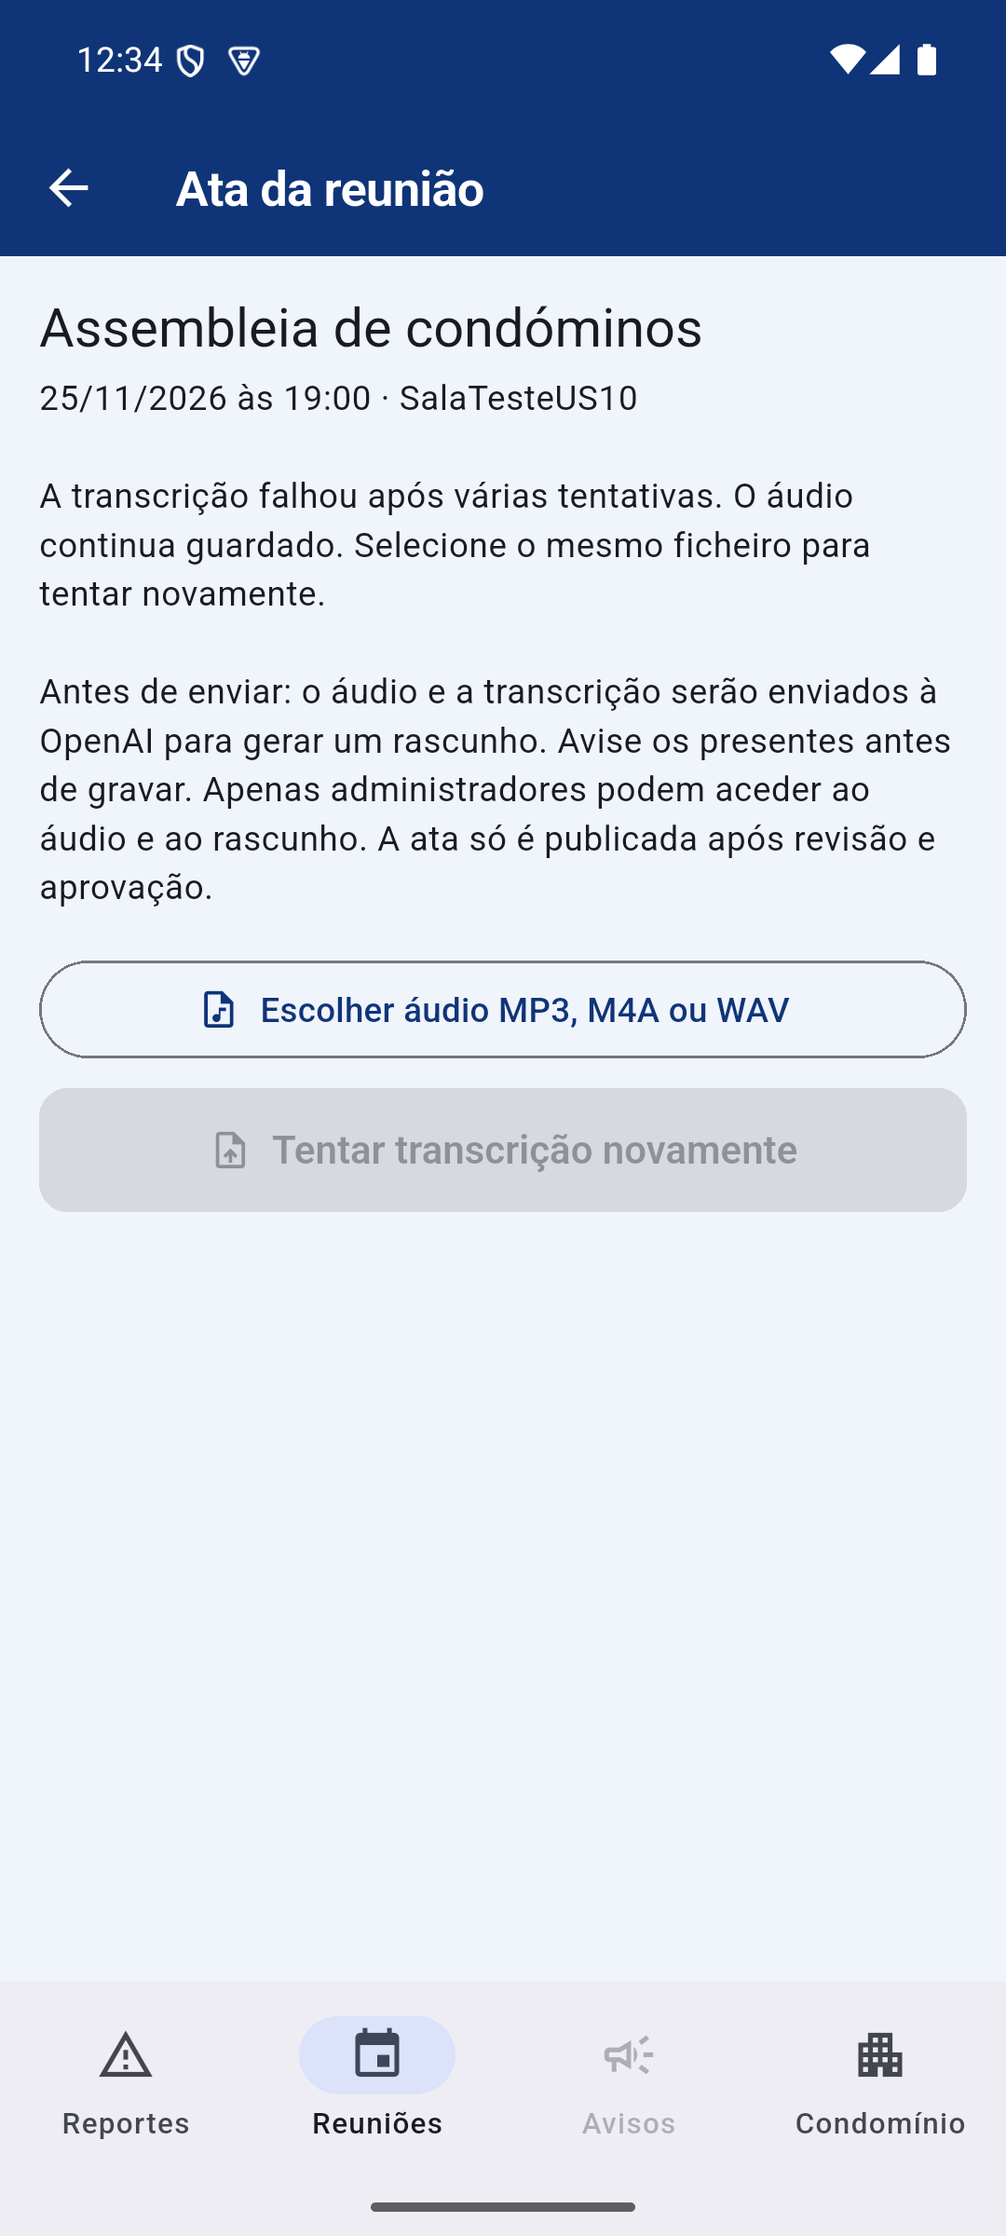
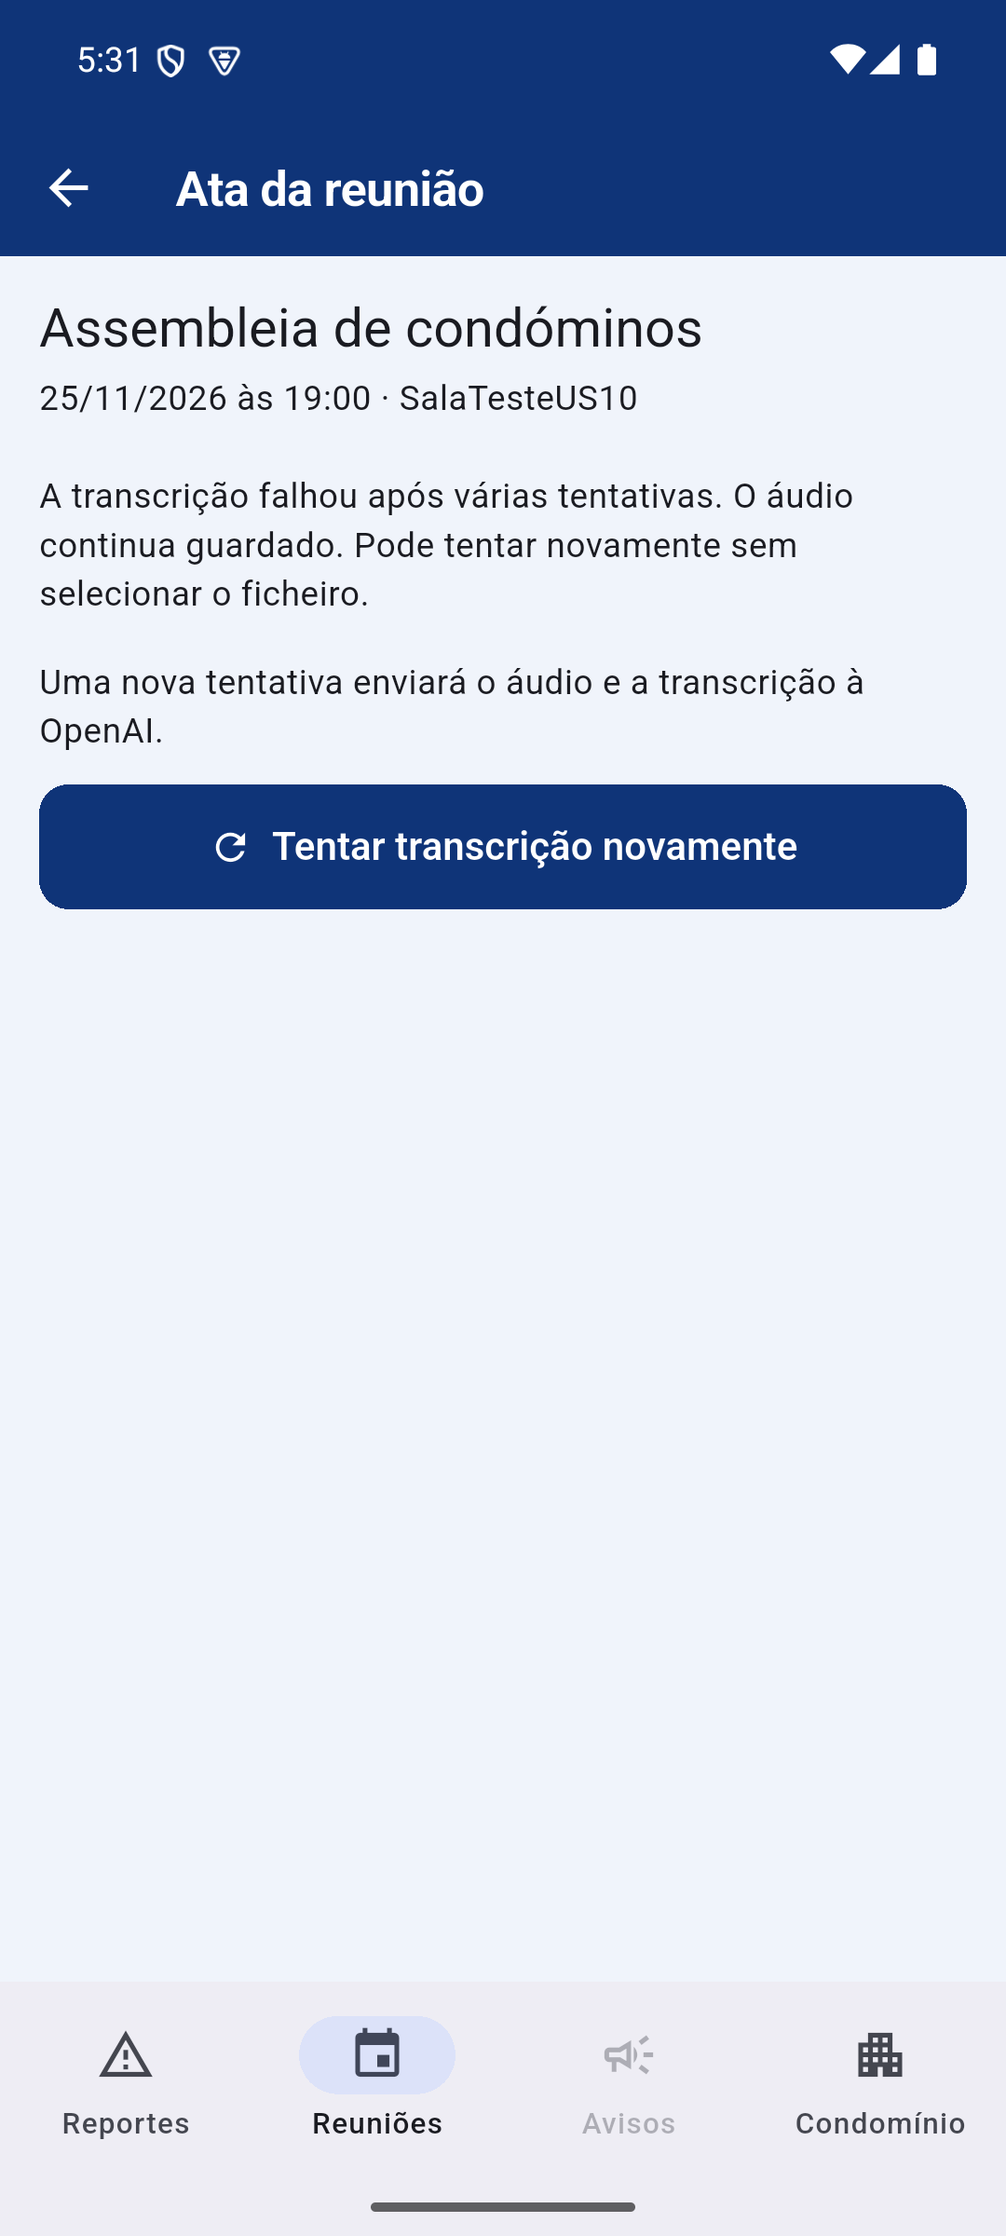
[#88] - Repetir transcrição sem novo upload
Reutiliza o áudio e o job após uma falha, com acesso restrito ao administrador. Atualiza a app, os testes, a documentação e a captura do emulador.

diff --git a/DomusCast/mobile/lib/screens/ata_screen.dart b/DomusCast/mobile/lib/screens/ata_screen.dart
@@ -171,13 +171,48 @@ class _AtaScreenState extends State<AtaScreen> with WidgetsBindingObserver {
     }
   }
 
+  Future<void> _repetir() async {
+    if (_aEnviar) return;
+    setState(() {
+      _aEnviar = true;
+      _erro = null;
+    });
+    try {
+      final ata =
+          await widget.api.repetirTranscricaoAta(_reuniaoId, widget.credencial);
+      if (!mounted) return;
+      setState(() {
+        _ata = ata;
+        _aEnviar = false;
+      });
+      _agendarConsulta();
+    } on ApiException catch (e) {
+      if (!mounted) return;
+      setState(() {
+        _erro = _mensagemErro(e);
+        _aEnviar = false;
+      });
+    } catch (_) {
+      if (!mounted) return;
+      setState(() {
+        _erro =
+            'Não foi possível repetir a transcrição. Verifique a rede e tente novamente.';
+        _aEnviar = false;
+      });
+    }
+  }
+
   String _mensagemErro(ApiException erro) => switch (erro.statusCode) {
         401 => 'A sessão expirou. Entre novamente na app.',
         403 => 'Só um administrador pode consultar esta ata.',
         404 => 'A reunião não foi encontrada.',
         409 => erro.codigo == 'ata_ja_aprovada'
             ? 'A ata já foi aprovada.'
-            : 'Esta reunião já tem outro áudio. Consulte a ata existente.',
+            : erro.codigo == 'audio_em_falta'
+                ? 'O áudio original não está disponível. Contacte o administrador do sistema.'
+                : erro.codigo == 'ata_nao_falhou'
+                    ? 'A ata já não está em falha. Atualize o estado.'
+                    : 'Esta reunião já tem outro áudio. Consulte a ata existente.',
         413 => 'O áudio excede o limite de 200 MB.',
         415 => 'Formato não aceite. Use MP3, M4A ou WAV.',
         422 => 'O áudio é inválido. Escolha outro ficheiro.',
@@ -188,7 +223,7 @@ class _AtaScreenState extends State<AtaScreen> with WidgetsBindingObserver {
   @override
   Widget build(BuildContext context) {
     final estado = _ata?['estado'] as String?;
-    final podeEnviar = estado == null || estado == 'falhou_transcricao';
+    final podeEnviar = estado == null;
     return Scaffold(
       appBar: AppBar(title: const Text('Ata da reunião')),
       body: RefreshIndicator(
@@ -224,7 +259,19 @@ class _AtaScreenState extends State<AtaScreen> with WidgetsBindingObserver {
               Semantics(
                   liveRegion: true,
                   child: const Text(
-                      'A transcrição falhou após várias tentativas. O áudio continua guardado. Selecione o mesmo ficheiro para tentar novamente.')),
+                      'A transcrição falhou após várias tentativas. O áudio continua guardado. Pode tentar novamente sem selecionar o ficheiro.')),
+            if (estado == 'falhou_transcricao') ...[
+              const SizedBox(height: 16),
+              const Text(
+                  'Uma nova tentativa enviará o áudio e a transcrição à OpenAI.'),
+              const SizedBox(height: 12),
+              FilledButton.icon(
+                onPressed: _aEnviar ? null : _repetir,
+                icon: const Icon(Icons.refresh),
+                label: const Text('Tentar transcrição novamente'),
+              ),
+              if (_aEnviar) const Center(child: CircularProgressIndicator()),
+            ],
             if (estado == 'pendente_revisao') ...[
               Semantics(
                   liveRegion: true,
@@ -256,9 +303,7 @@ class _AtaScreenState extends State<AtaScreen> with WidgetsBindingObserver {
               FilledButton.icon(
                 onPressed: _audio == null || _aEnviar ? null : _enviar,
                 icon: const Icon(Icons.upload_file),
-                label: Text(estado == 'falhou_transcricao'
-                    ? 'Tentar transcrição novamente'
-                    : 'Enviar áudio'),
+                label: const Text('Enviar áudio'),
               ),
               if (_aEnviar) const Center(child: CircularProgressIndicator()),
             ],

diff --git a/DomusCast/mobile/test/us10_atas_test.dart b/DomusCast/mobile/test/us10_atas_test.dart
@@ -100,26 +100,32 @@ void main() {
     expect(find.text('Enviar áudio'), findsNothing);
   });
 
-  testWidgets('falha preserva áudio e permite reenviar o mesmo ficheiro',
+  testWidgets('falha preserva áudio e permite repetir sem escolher ficheiro',
       (tester) async {
     var envios = 0;
+    var escolhas = 0;
     final api = ApiService(client: MockClient((req) async {
       if (req.method == 'GET') return _json(_ata('falhou_transcricao'), 200);
+      expect(req.url.path, '/reunioes/8/ata/repetir');
       envios++;
       return _json(_ata('a_transcrever'), 202);
     }));
-    await tester.pumpWidget(_ecra(api));
+    await tester.pumpWidget(_ecra(api, escolherAudio: () async {
+      escolhas++;
+      return _audio;
+    }));
     await tester.pumpAndSettle();
 
     expect(find.textContaining('O áudio continua guardado'), findsOneWidget);
-    await tester.tap(find.text('Escolher áudio MP3, M4A ou WAV'));
-    await tester.pumpAndSettle();
+    expect(find.textContaining('enviará o áudio'), findsOneWidget);
+    expect(find.text('Escolher áudio MP3, M4A ou WAV'), findsNothing);
     await tester.ensureVisible(find.text('Tentar transcrição novamente'));
     await tester.tap(find.text('Tentar transcrição novamente'));
     await tester.pump();
     await tester.pump(const Duration(milliseconds: 100));
 
     expect(envios, 1);
+    expect(escolhas, 0);
     expect(find.textContaining('A transcrever.'), findsOneWidget);
   });
 
@@ -128,8 +134,9 @@ void main() {
     final urls = <Uri>[];
     final api = ApiService(client: MockClient((req) async {
       urls.add(req.url);
-      if (req.url.path.endsWith('/ata'))
+      if (req.url.path.endsWith('/ata')) {
         return _json({'codigo': 'nao_encontrada'}, 404);
+      }
       return _json([_reuniao], 200);
     }));
     await tester.pumpWidget(

diff --git a/DomusCast/mobile/lib/services/api_service.dart b/DomusCast/mobile/lib/services/api_service.dart
@@ -340,4 +340,14 @@ class ApiService {
     final response = await http.Response.fromStream(streamed);
     return _corpo(response, 202) as Map<String, dynamic>;
   }
+
+  /// Recomeça a transcrição com o áudio original guardado no servidor.
+  Future<Map<String, dynamic>> repetirTranscricaoAta(
+      int reuniaoId, String credencial) async {
+    final r = await _client.post(
+      Uri.parse('$baseUrl/reunioes/$reuniaoId/ata/repetir'),
+      headers: _auth(credencial),
+    );
+    return _corpo(r, 202) as Map<String, dynamic>;
+  }
 }

diff --git a/DomusCast/api/app/routers/atas.py b/DomusCast/api/app/routers/atas.py
@@ -89,14 +89,27 @@ def _resposta(ata: models.Ata) -> dict:
     }
 
 
+def _repor_job(db: Session, ata: models.Ata, request_id: str) -> None:
+    job = db.query(models.Job).filter_by(chave_idempotencia=f"transcrever:{ata.id}").one()
+    job.estado = models.EstadoJob.pendente
+    job.tentativas = 0
+    job.proxima_tentativa_em = None
+    job.erro = None
+    job.request_id = request_id
+    ata.estado = models.EstadoAta.a_transcrever
+    ata.rascunho = None
+
+
 @router.post("/{reuniao_id}/ata/audio", response_model=schemas.AtaOut, status_code=202)
 def carregar_audio(
     reuniao_id: int,
     request: Request,
+    response: Response,
     audio: Annotated[UploadFile, File()],
     admin: Annotated[models.Administrador, Depends(admin_do_pedido)],
     db: Annotated[Session, Depends(get_db)],
 ):
+    response.headers["Cache-Control"] = "private, no-store"
     try:
         reuniao = db.query(models.Reuniao).filter(
             models.Reuniao.id == reuniao_id,
@@ -129,13 +142,7 @@ def carregar_audio(
             if ata.audio_sha256 != digest:
                 raise ErroApi(409, "audio_diferente", "Esta reunião já tem outro áudio.")
             if ata.estado == models.EstadoAta.falhou_transcricao:
-                job = db.query(models.Job).filter_by(chave_idempotencia=f"transcrever:{ata.id}").one()
-                job.estado = models.EstadoJob.pendente
-                job.tentativas = 0
-                job.proxima_tentativa_em = None
-                job.erro = None
-                ata.estado = models.EstadoAta.a_transcrever
-                ata.rascunho = None
+                _repor_job(db, ata, request.state.request_id)
                 db.commit()
             return _resposta(ata)
 
@@ -163,6 +170,44 @@ def carregar_audio(
     finally:
         if not manter_ficheiro:
             caminho.unlink(missing_ok=True)
+
+
+@router.post("/{reuniao_id}/ata/repetir", response_model=schemas.AtaOut, status_code=202)
+def repetir_transcricao(
+    reuniao_id: int,
+    request: Request,
+    response: Response,
+    admin: Annotated[models.Administrador, Depends(admin_do_pedido)],
+    db: Annotated[Session, Depends(get_db)],
+):
+    """Reutiliza o áudio e o job guardados sem pedir o ficheiro ao telemóvel."""
+    response.headers["Cache-Control"] = "private, no-store"
+    try:
+        reuniao = db.query(models.Reuniao).filter(
+            models.Reuniao.id == reuniao_id,
+            models.Reuniao.condominio_id == admin.condominio_id,
+        ).with_for_update().first()
+        if reuniao is None:
+            raise HTTPException(status_code=404, detail="Reunião não encontrada.")
+        ata = db.query(models.Ata).filter_by(reuniao_id=reuniao_id).first()
+        if ata is None:
+            raise HTTPException(status_code=404, detail="Ata não encontrada.")
+        if ata.estado == models.EstadoAta.aprovada:
+            raise ErroApi(409, "ata_ja_aprovada", "A ata já foi aprovada.")
+        if ata.estado == models.EstadoAta.a_transcrever:
+            return _resposta(ata)
+        if ata.estado != models.EstadoAta.falhou_transcricao or ata.origem != models.OrigemAta.ia:
+            raise ErroApi(409, "ata_nao_falhou", "Esta ata não está em falha de transcrição.")
+        raiz = MEDIA_ROOT.resolve()
+        caminho = (raiz / (ata.audio_path or "")).resolve()
+        if not ata.audio_path or not caminho.is_relative_to(raiz) or not caminho.is_file():
+            raise ErroApi(409, "audio_em_falta", "O áudio original não está disponível.")
+        _repor_job(db, ata, request.state.request_id)
+        db.commit()
+        return _resposta(ata)
+    except OperationalError as exc:
+        db.rollback()
+        raise _indisponivel() from exc
 
 
 @router.get("/{reuniao_id}/ata", response_model=schemas.AtaOut)

diff --git a/DomusCast/api/tests/test_us10.py b/DomusCast/api/tests/test_us10.py
@@ -80,6 +80,63 @@ def test_reenvio_reutiliza_ata_e_job_e_reinicia_falha(client, db, tmp_path, monk
     assert (tmp_path / ata.audio_path).exists()
 
 
+def test_repetir_a_partir_do_audio_guardado_sem_novo_upload(client, db, tmp_path, monkeypatch):
+    monkeypatch.setattr(atas, "MEDIA_ROOT", tmp_path)
+    admin, token = _admin(db)
+    reuniao_id = _agendar(client, token).json()["id"]
+    ata_id = _enviar(client, reuniao_id, token).json()["id"]
+    ata = db.get(models.Ata, ata_id)
+    job = db.query(models.Job).filter_by(chave_idempotencia=f"transcrever:{ata_id}").one()
+    ata.estado = models.EstadoAta.falhou_transcricao
+    ata.transcricao = "Transcrição já guardada antes da falha do rascunho."
+    job.estado = models.EstadoJob.falhou
+    job.tentativas = 5
+    db.commit()
+
+    url = f"/reunioes/{reuniao_id}/ata/repetir"
+    resposta = client.post(url, headers=_auth(token))
+    assert resposta.status_code == 202
+    assert resposta.headers["cache-control"] == "private, no-store"
+    assert resposta.json()["estado"] == "a_transcrever"
+    assert resposta.json()["audio_guardado"] is True
+    assert client.post(url, headers=_auth(token)).status_code == 202
+    db.refresh(ata)
+    db.refresh(job)
+    assert ata.transcricao == "Transcrição já guardada antes da falha do rascunho."
+    assert job.estado == models.EstadoJob.pendente
+    assert job.tentativas == 0
+    assert job.request_id == resposta.headers["X-Request-ID"]
+    assert db.query(models.Ata).filter_by(reuniao_id=reuniao_id).count() == 1
+    assert db.query(models.Job).filter_by(chave_idempotencia=f"transcrever:{ata_id}").count() == 1
+    assert (tmp_path / ata.audio_path).read_bytes() == _wav()
+
+    residente = _residente(db, db.get(models.Condominio, admin.condominio_id))
+    _, outro_admin = _admin(db)
+    assert client.post(url, headers=_auth(residente)).status_code == 403
+    assert client.post(url, headers=_auth(outro_admin)).status_code == 404
+    assert client.post(url).status_code == 401
+
+
+def test_repetir_recusa_ata_aprovada_sem_falha_ou_audio(client, db, tmp_path, monkeypatch):
+    monkeypatch.setattr(atas, "MEDIA_ROOT", tmp_path)
+    _, token = _admin(db)
+    reuniao_id = _agendar(client, token).json()["id"]
+    url = f"/reunioes/{reuniao_id}/ata/repetir"
+    assert client.post(url, headers=_auth(token)).status_code == 404
+    ata_id = _enviar(client, reuniao_id, token).json()["id"]
+    ata = db.get(models.Ata, ata_id)
+    ata.estado = models.EstadoAta.pendente_revisao
+    db.commit()
+    assert client.post(url, headers=_auth(token)).json()["codigo"] == "ata_nao_falhou"
+    ata.estado = models.EstadoAta.falhou_transcricao
+    db.commit()
+    (tmp_path / ata.audio_path).unlink()
+    assert client.post(url, headers=_auth(token)).json()["codigo"] == "audio_em_falta"
+    ata.estado = models.EstadoAta.aprovada
+    db.commit()
+    assert client.post(url, headers=_auth(token)).json()["codigo"] == "ata_ja_aprovada"
+
+
 def test_audio_aprovado_nao_pode_ser_substituido(client, db, tmp_path, monkeypatch):
     monkeypatch.setattr(atas, "MEDIA_ROOT", tmp_path)
     _, token = _admin(db)

diff --git a/docs/sprintB/US10-implementacao.md b/docs/sprintB/US10-implementacao.md
@@ -5,7 +5,7 @@ Issue [#88](https://github.com/LMNSdev/LABDSOF_DOMUSCAST/issues/88). A implement
 ## Percurso
 
 1. O administrador abre uma reunião, incluindo reuniões passadas, e vê o aviso de transferência do áudio e da transcrição à OpenAI antes de escolher o ficheiro.
-2. `POST /reunioes/{id}/ata/audio` valida a reunião, o formato e o tamanho, grava o original no volume partilhado e cria a ata e um job na mesma transação. Responde `202` com `a_transcrever`. Um reenvio do mesmo ficheiro reutiliza a ata e o job; após uma falha, repõe o job como pendente.
+2. `POST /reunioes/{id}/ata/audio` valida a reunião, o formato e o tamanho, grava o original no volume partilhado e cria a ata e um job na mesma transação. Responde `202` com `a_transcrever`. Um reenvio do mesmo ficheiro reutiliza a ata e o job. Após uma falha, `POST /reunioes/{id}/ata/repetir` repõe o mesmo job com o áudio guardado, sem novo upload. Uma repetição enquanto já processa devolve o estado atual.
 3. O Worker reserva jobs `transcrever` por `FOR UPDATE SKIP LOCKED`, normaliza o áudio com FFmpeg, chama `gpt-transcribe` e usa `gpt-4o-mini` para propor a ata. O rascunho exige excertos literais da transcrição para as decisões e marca incerteza como «por confirmar». O áudio nunca é enviado para o modelo de redação.
 4. `GET /reunioes/{id}/ata` mostra estado e resultado apenas ao administrador do condomínio. A app atualiza o estado a cada 15 segundos enquanto processa. O original pode ser obtido por `GET /reunioes/{id}/ata/audio`, também restrito ao administrador e sem cache.
 5. Após cinco tentativas sem sucesso, o estado é `falhou_transcricao` e o original continua guardado. Uma resposta tardia do Worker não altera uma ata já aprovada ou manual. Quando a US-24 gravar o estado `aprovada`, deve manter `audio_path` até o Worker eliminar o original e os dados intermédios. A limpeza é retomada depois de uma interrupção.
@@ -26,12 +26,12 @@ O processamento não cria uma fila offline para áudio no dispositivo: a US-18 t
 
 ## Validação realizada
 
-- `pytest tests/ -q`: 153 testes passaram, incluindo autorização, condomínio alheio, 413/415/422/503, idempotência, falha, cinco tentativas, proteção de ata aprovada, limpeza retomável, consulta privada do original e contrato HTTP com a OpenAI simulado.
+- `pytest tests/ -q`: 155 testes passaram, incluindo autorização, condomínio alheio, 413/415/422/503, repetição sem upload, idempotência, falha, cinco tentativas, proteção de ata aprovada, limpeza retomável, consulta privada do original e contrato HTTP com a OpenAI simulado.
 - `ruff check .`: passou.
 - `flutter test`: 132 testes passaram, incluindo upload multipart, aviso de privacidade, estados, falhas, reuniões passadas e semântica de acessibilidade.
 - Alembic em PostgreSQL real: `upgrade head`, `downgrade base`, `upgrade head` passaram em base isolada.
 - Docker Compose: API e Worker arrancaram com health checks saudáveis; FFmpeg transcodificou áudio WAV sintético.
-- Emulador Android 15: seleção e upload do WAV sintético, estado `a_transcrever`, cinco tentativas reais do Worker sem chave (tempos de espera adiantados apenas na base de teste), `falhou_transcricao`, áudio original presente no volume e reenvio do mesmo ficheiro com uma única ata e um único job.
+- Emulador Android 15: seleção e upload do WAV sintético, estado `a_transcrever`, cinco tentativas reais do Worker sem chave (tempos de espera adiantados apenas na base de teste), `falhou_transcricao` e áudio original presente no volume. O botão de repetição sem seleção voltou ao estado `a_transcrever` com uma única ata e um único job; a captura 04 mostra o botão antes da repetição.
 
 ## Evidência visual no emulador
 

diff --git a/DomusCast/README.md b/DomusCast/README.md
@@ -70,6 +70,7 @@ A base de dados é criada e as migrações correm automaticamente.
 | `GET  /fracoes/{id}/identidades` | Listar os residentes ativos de uma fração (administrador) |
 | `DELETE /identidades/{id}` | Remover a identidade de um residente (administrador) |
 | `POST /reunioes/{id}/ata/audio` | Enviar áudio para transcrição assíncrona (administrador; MP3, M4A ou WAV até 200 MB) |
+| `POST /reunioes/{id}/ata/repetir` | Repetir uma transcrição falhada com o áudio já guardado, sem novo upload |
 | `GET /reunioes/{id}/ata` | Consultar estado, transcrição e rascunho privados |
 | `GET /reunioes/{id}/ata/audio` | Consultar o áudio original antes da aprovação (administrador) |
 | `GET  /docs` | Documentação interativa (Swagger UI) |
@@ -296,7 +297,7 @@ A IA faz uma só coisa: transformar a gravação de uma assembleia num **rascunh
 - Custo estimado: cerca de US$ 0,27 por ata de 1 hora de áudio (preços consultados a 2026-10-23; detalhe em [docs/sprintA/sprintA.md, secção 7.4](../docs/sprintA/sprintA.md#74-abordagem-de-avaliação)).
 - O áudio da assembleia é enviado à OpenAI; por isso usamos gravações sintéticas nos testes e avisamos os presentes antes de gravar.
 - A IA não publica nem decide nada: o rascunho fica "gerado por IA, pendente de revisão" até o administrador o aprovar. Sem IA, o administrador escreve a ata à mão.
-- Na app, o administrador abre **Reuniões**, ativa **Mostrar reuniões passadas**, escolhe a assembleia e envia o áudio. O ecrã mostra o estado e atualiza-o periodicamente; uma falha permite selecionar e reenviar o mesmo ficheiro, sem criar outra ata ou job. O áudio original fica guardado em caso de falha.
+- Na app, o administrador abre **Reuniões**, ativa **Mostrar reuniões passadas**, escolhe a assembleia e envia o áudio. O ecrã mostra o estado e atualiza-o periodicamente; uma falha permite repetir a partir do áudio guardado, sem selecionar o ficheiro outra vez nem criar outra ata ou job.
 - A aprovação e publicação pertencem à US-24; quando essa história marcar a ata como aprovada, o Worker elimina o original e os dados intermédios, mesmo após reinício. O fallback manual pertence à US-25. As escolhas de 200 MB e MP3/M4A/WAV ainda aguardam confirmação da equipa. Ver [implementação e validação da US-10](../docs/sprintB/US10-implementacao.md).
 - Detalhe e justificação: [docs/sprintA/sprintA.md, secção 7](../docs/sprintA/sprintA.md#7-responsible-ai-opportunity-assessment).
 
